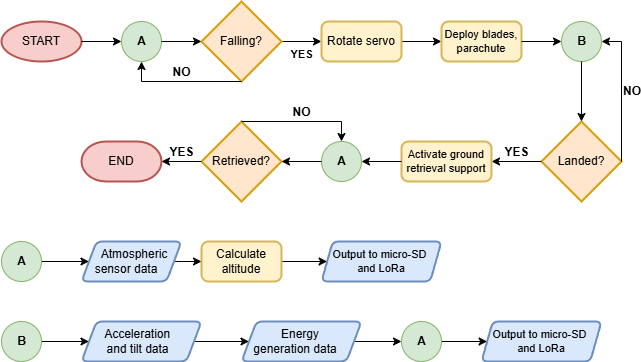
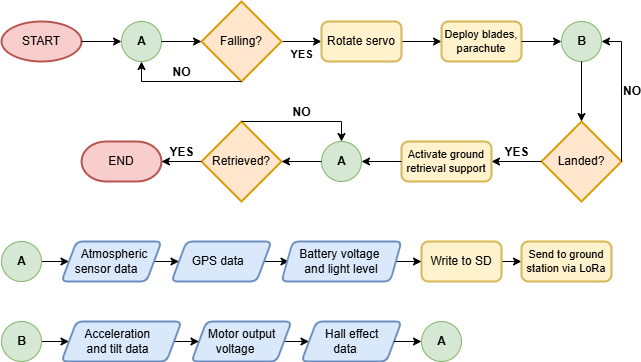
update documentation

Changed region(s): [[0.0936, 0.6381, 0.9672, 0.7901], [0.0936, 0.8812, 0.936, 1.0]]

diff --git a/README.md b/README.md
@@ -8,10 +8,10 @@ This project will use two seperate microcontrollers: one onboard the CanSat and 
 The onboard computer will be a costume-made PCB using the ESP-WROOM-32E it will be connected to the following peripherals:
 * BME280 - temperature, atmospheric pressure, and air humidity sensor
 * M10Q GPS QMC5883 - GPS module
-* LSM9DS1TR - accelerometer, and tilt sensor
+* LSM9DS1TR - accelerometer, magnetometer, and gyroscope
 * HX6659IUA-B - Hall effect sensor, used to determine the number of rotations of the parachute relative to the CanSat body
 * ADS1115IDGSR - external analog to digital convertor, used to get more accurate digital conversions from both voltage dividers and the photoresistor
-* Voltage dividers - two voltage divider, used to determine the amount of energy produced by the motor and the battery energy level
+* Voltage dividers - two voltage dividers, used to determine the amount of energy produced by the motor and the battery energy level
 * GL5516 - photoresistor, used to determine if the CanSat is in the rocket or outside
 * Ra-02 - LoRa communication module, used to transmit data to the ground station
 * TF PUSH - TF card reader, used to write data to the micro-SD card onboard
